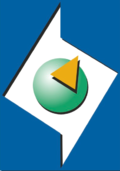
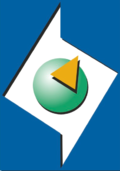
layout

diff --git a/index.html b/index.html
@@ -24,6 +24,7 @@
 	<link href='http://fonts.googleapis.com/css?family=Montserrat:400,700' rel='stylesheet' type='text/css'>
 	<link href='http://fonts.googleapis.com/css?family=Open+Sans:400,300,300italic,400italic,600,600italic,700,700italic,800,800italic' rel='stylesheet' type='text/css'>
 	<link href='http://fonts.googleapis.com/css?family=Playball' rel='stylesheet' type='text/css'>
+	
     <!-- HTML5 shim and Respond.js for IE8 support of HTML5 elements and media queries -->
     <!-- WARNING: Respond.js doesn't work if you view the page via file:// -->
     <!--[if lt IE 9]>
@@ -37,8 +38,9 @@
 			<div class="banner row" id="banner">		
 				<div class="parallax text-center" style="background-image: url(img/1.jpg);">
 					<div class="parallax-pattern-overlay">
-						<div class="container text-center" style="height:600px;padding-top:170px;">
-							<a href="#"><img id="site-title" class=" wow fadeInDown" wow-data-delay="0.0s" wow-data-duration="0.9s" src="img/2.png" alt=""/></a>							<h2 class="intro"><a href="index.html">Lorena Salamanca Rojas</a></h2>
+						<div class="container text-center" style="height:600px;padding-top:130px;">
+							<a href="#"><img id="site-banner" class=" wow fadeInDown" wow-data-delay="0.0s" wow-data-duration="0.9s" src="img/2.png" alt=""/></a>							
+							<h2 class="intro"><a href="index.html">Lorena Salamanca Rojas</a></h2>
 						</div>
 					</div>
 				</div>
@@ -74,7 +76,10 @@
 		<div class="container">
 			<div class="heading text-center">				
 				<h2>About Me</h2>				
-				<h3>No puedo quitar esto :( </h3>
+				<h3>Flexible and analytical with a keen eye for details; skilled at optimizing different architectures to achieve overall objectives. 
+				+4 years of experience developing mostly on Java and Python using different frameworks (Spring, JSF, Play, Maven; Django). 
+				Experience on provisioning, monitoring and troubleshooting cloud services, mainly on AWS. 
+				<h3>Passionate about cloud architectures and agile methodologies.</h3>
 			</div>			
 			<div class="row">
 				<!--<div class="col-md-6">
@@ -395,13 +400,13 @@
 			<a href="#wrapper" class="gototop"><i class="fa fa-angle-double-up fa-2x"></i></a>
 		</p>
 		<div class="container">
-			<ul>
+			<!--<ul>
 				<li><a href="#"><i class="fa fa-twitter"></i></a></li>
 				<li><a href="#"><i class="fa fa-facebook"></i></a></li>
 				<li><a href="#"><i class="fa fa-linkedin"></i></a></li>
 				<li><a href="#"><i class="fa fa-pinterest"></i></a></li>
 				<li><a href="#"><i class="fa fa-flickr"></i></a></li>
-			</ul>
+			</ul>-->
 			<p>
 				&copy; 2015 <a target="_blank" href="http://bootstraptaste.com/" title="Free Twitter Bootstrap WordPress Themes and HTML templates">bootstraptaste</a>. All Rights Reserved.
 			</p>

diff --git a/css/theme.css b/css/theme.css
@@ -124,11 +124,11 @@ img {max-width: 100%;}
 	-moz-transition:all .5s;
 	-webkit-transition:all .5s;
 	transition:all .5s;
-		background:#111;
+	background:#111;
 }
 .isFixed {
 	background:#333;
-		-o-transition:all .5s;
+	-o-transition:all .5s;
 	-ms-transition:all .5s;
 	-moz-transition:all .5s;
 	-webkit-transition:all .5s;
@@ -194,6 +194,10 @@ header {
 }
 img#site-title {
 	max-width: 150px;
+}
+
+img#site-banner {
+	max-width: 240px;
 }
 
 .papers,.papers:before,.papers:after {
@@ -842,6 +846,16 @@ textarea.contact {
 .footer a,.footer a:hover {
 	color:#fff;
 }
+
+.newspaper {
+    -webkit-column-count: 2; /* Chrome, Safari, Opera */
+    -moz-column-count: 2; /* Firefox */
+    column-count: 2;
+    -webkit-column-gap: 40px; /* Chrome, Safari, Opera */
+    -moz-column-gap: 40px; /* Firefox */
+    column-gap: 40px;
+}
+
 blockquote {
 	font-style:italic;
 	margin:0 0 0px 0;
